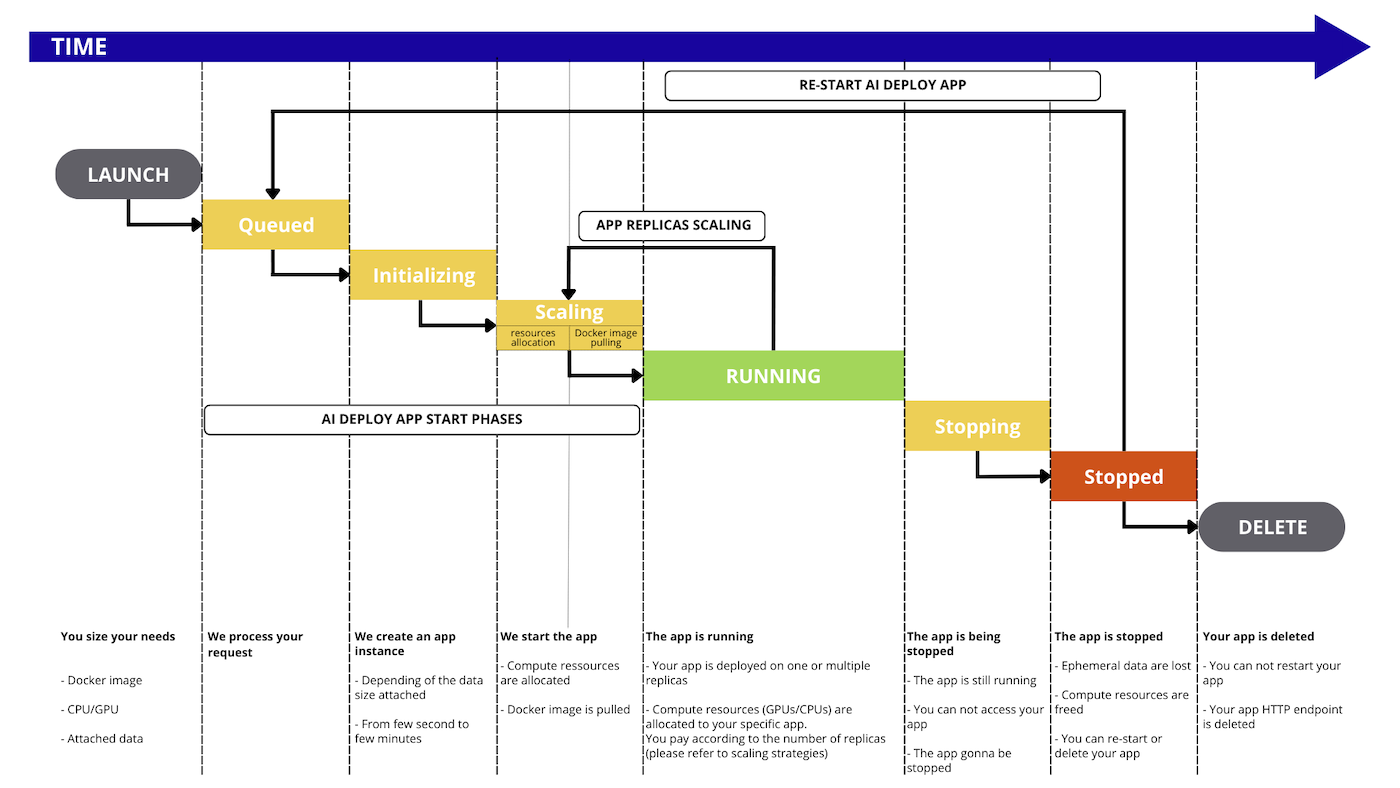
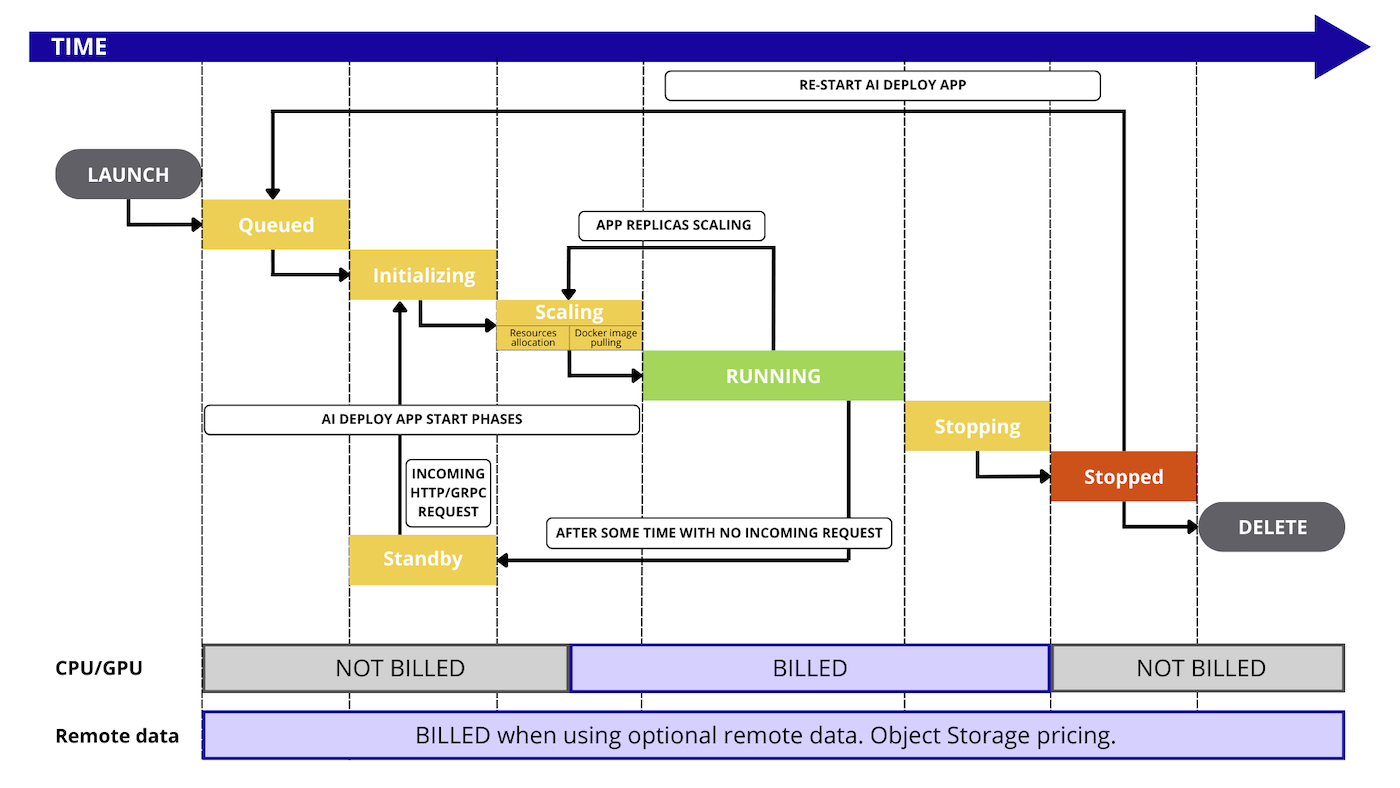
add standby state to ai deploy lifecycle

diff --git a/pages/public_cloud/ai_machine_learning/deploy_guide_06_billing_concept/guide.en-gb.md b/pages/public_cloud/ai_machine_learning/deploy_guide_06_billing_concept/guide.en-gb.md
@@ -1,7 +1,7 @@
 ---
 title: AI Deploy - Billing and lifecycle
 excerpt: Learn how we bill AI Deploy
-updated: 2025-02-18
+updated: 2026-02-10
 ---
 
 > [!primary]
@@ -24,16 +24,17 @@ AI Deploy is linked to a Public Cloud project. The whole project is billed at th
 OVHcloud AI Deploy allows deployment of Docker images, and each deployment is called an `app`. 
 During its lifetime, the app will go through the following status:
 
-- `QUEUED`: the app deployment request is about to be processed.
-- `INITIALIZING`: the app is being started and, if any, the remote data is synchronized from the Object Storage. To learn more about data synchronization, please check out the [Data - Concept and best practices](/pages/public_cloud/ai_machine_learning/gi_02_concepts_data#how-it-works) documentation.
+- `QUEUED`: The app deployment request is about to be processed.
+- `INITIALIZING`: The app is being started and, if any, the remote data is synchronized from the Object Storage. To learn more about data synchronization, please check out the [Data - Concept and best practices](/pages/public_cloud/ai_machine_learning/gi_02_concepts_data#how-it-works) documentation.
 - `SCALING`: First, the system allocates the necessary compute resources (CPU/GPU) for the app. Then, the specified Docker image is pulled for use in the app. This status is also entered when the number of app replicas is being increased or decreased.
 - `RUNNING`: At least one replica of the app is available and accessible via its endpoint. As the app scales up to create new replicas, the status transitions back to `SCALING`. However, there is no interruption in service, and the original replica(s) remain accessible during this time.
-- `STOPPING`: the app is stopping, your compute resources are freed. Ephemeral data is deleted.
-- `STOPPED`: the app ended normally. You can restart it whenever you want or delete it. It will keep the same endpoint.
-- `FAILED`: the app ended in error, e.g. the Docker image is invalid (unreachable, built with linux/arm, ...).
-- `ERROR`: the app ended due to a backend error (issue on OVHcloud side). You may reach our support.
-- `DELETING`: the app is being removed. When it is deleted, you will no longer see it, it will no longer exist.
-- `DELETED`: the app is fully deleted.
+- `STANDBY`: The app has no running replicas but is ready to scale back up when traffic arrives. **This happens after a period with no incoming requests when scaling to 0 is enabled**. When traffic arrives, the app transitions from `STANDBY` to `RUNNING` through the `INITIALIZING` and `SCALING` states.
+- `STOPPING`: The app is stopping, your compute resources are freed. Ephemeral data is deleted.
+- `STOPPED`: The app ended normally. You can restart it whenever you want or delete it. It will keep the same endpoint.
+- `FAILED`: The app ended in error, e.g. the Docker image is invalid (unreachable, built with linux/arm, ...).
+- `ERROR`: The app ended due to a backend error (issue on OVHcloud side). You may reach our support.
+- `DELETING`: The app is being removed. When it is deleted, you will no longer see it, it will no longer exist.
+- `DELETED`: The app is fully deleted.
 
 ![image](images/ai.deploy.lifecycle.png){.thumbnail}
 
@@ -68,10 +69,10 @@ Their official pricing is available in the [OVHcloud Control Panel](/links/manag
 
 Rates for compute are mentioned per hour to facilitate reading of the prices, but the billing granularity remains **per minute**.
 
-Once you select the compute resources, you can specify the scaling strategy:
+Once you select the compute resources, you can specify the [scaling strategy](/pages/public_cloud/ai_machine_learning/deploy_guide_04_scaling_strategies):
 
 - **Fixed scaling**: you can specify a fixed amount of replicas, starting at one. Please note that with one replica, you will not benefit from high-availability.
-- **Auto-scaling**: you can specify a minimum and maximum amount of replicas, and a metric that will act as a trigger for scaling up or down (CPU or RAM usage). Each replica will benefit from the compute resource selected before.
+- **Auto-scaling**: you can specify a minimum and maximum amount of replicas, and a metric that will act as a trigger for scaling up or down (CPU, RAM usage or a custom metric). Each replica will benefit from the compute resource selected before.
 
 ### Storage details
 
